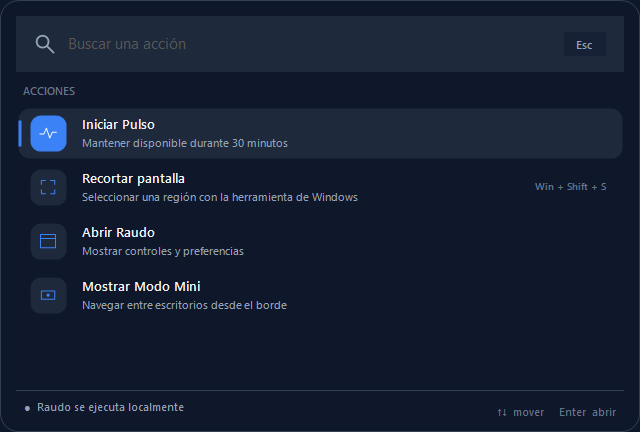
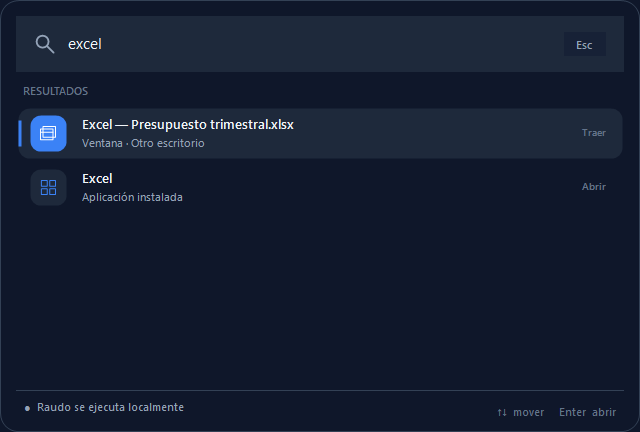
Prepare Raudo 1.3.0 release

diff --git a/src/Raudo/Properties/AssemblyInfo.cs b/src/Raudo/Properties/AssemblyInfo.cs
@@ -7,8 +7,8 @@ using System.Runtime.InteropServices;
 [assembly: AssemblyCompany("Adrielcrv")]
 [assembly: AssemblyProduct("Raudo")]
 [assembly: AssemblyCopyright("Copyright © 2026 Adrielcrv")]
-[assembly: AssemblyVersion("1.2.0.0")]
-[assembly: AssemblyFileVersion("1.2.0.0")]
+[assembly: AssemblyVersion("1.3.0.0")]
+[assembly: AssemblyFileVersion("1.3.0.0")]
 [assembly: ComVisible(false)]
 [assembly: Guid("6957c6c8-115a-483f-8a59-32d2024c6154")]
 [assembly: InternalsVisibleTo("Raudo.Tests")]

diff --git a/CHANGELOG.md b/CHANGELOG.md
@@ -4,6 +4,15 @@ Este proyecto utiliza versionado semántico.
 
 ## [Sin publicar]
 
+## [1.3.0] - 2026-07-13
+
+- Salto ahora encuentra ventanas abiertas por título o aplicación y distingue el escritorio actual de otro escritorio.
+- Una ventana existente tiene prioridad sobre iniciar otra instancia y puede enfocarse o traerse al escritorio actual.
+- Búsqueda de aplicaciones instaladas mediante el catálogo de aplicaciones de Windows, cargado una vez y bajo demanda.
+- Vista inicial limitada a las acciones de Raudo y máximo acotado de resultados durante una búsqueda.
+- Nuevos estados de preparación, ausencia de resultados y error de ejecución sin historial de consultas.
+- Validación ampliada para aplicaciones, ventanas actuales y externas, escalado y consumo de recursos.
+
 ## [1.2.0] - 2026-07-13
 
 - Nuevo lanzador Salto para buscar y ejecutar acciones locales con `Ctrl + Alt + Espacio`.

diff --git a/README.md b/README.md
@@ -27,10 +27,13 @@ Raudo reúne utilidades locales y ligeras para Windows en una aplicación de ban
 ### Salto
 
 - Abre un lanzador local con `Ctrl + Alt + Espacio` o desde la bandeja.
-- Busca acciones sin distinguir mayúsculas ni acentos.
+- Busca ventanas, aplicaciones y acciones sin distinguir mayúsculas ni acentos.
+- Prioriza una ventana abierta antes de iniciar otra instancia de la misma aplicación.
+- Indica si una ventana está en este u otro escritorio y permite enfocarla o traerla.
+- Obtiene las aplicaciones del catálogo de Windows una sola vez por sesión y bajo demanda.
 - Permite iniciar o detener Pulso, abrir Recortes y Raudo, controlar Modo Mini y cambiar entre escritorios disponibles.
 - Se opera con flechas, `Enter`, `Escape` o un clic.
-- Se crea únicamente al primer uso y no mantiene historial, indexación, scripts ni procesos auxiliares.
+- Se crea únicamente al primer uso: no mantiene historial, no indexa archivos, no ejecuta scripts ni instala procesos auxiliares.
 
 <p align="center">
   <img src="docs/raudo-salto-dark.png" width="640" alt="Salto de Raudo en modo oscuro">
@@ -63,7 +66,7 @@ La detección de ventanas utiliza la interfaz pública `IVirtualDesktopManager`.
 
 ## Privacidad y red
 
-Raudo no incluye telemetría, cuentas ni publicidad. Las búsquedas de Salto permanecen en memoria y se utilizan únicamente para filtrar el catálogo local. Raudo sólo se conecta a Internet cuando el usuario selecciona **Buscar actualizaciones**. En una instalación local, puede descargar el paquete oficial después de una confirmación, validar su versión y sus sumas SHA-256, reemplazar el ejecutable de forma atómica y reiniciarse. Una copia portable abre la publicación para actualización manual.
+Raudo no incluye telemetría, cuentas ni publicidad. Las búsquedas de Salto permanecen en memoria y se utilizan únicamente para filtrar ventanas, aplicaciones y acciones locales. El catálogo de aplicaciones se consulta a Windows bajo demanda; Raudo no recorre el disco ni conserva las consultas. Raudo sólo se conecta a Internet cuando el usuario selecciona **Buscar actualizaciones**. En una instalación local, puede descargar el paquete oficial después de una confirmación, validar su versión y sus sumas SHA-256, reemplazar el ejecutable de forma atómica y reiniciarse. Una copia portable abre la publicación para actualización manual.
 
 Consulta [PRIVACY.md](PRIVACY.md) para conocer los datos locales y el comportamiento de red.
 

diff --git a/PRIVACY.md b/PRIVACY.md
@@ -24,6 +24,12 @@ Durante una actualización confirmada, los archivos temporales se guardan en:
 
 La copia anterior del ejecutable se conserva únicamente durante el reinicio y después se elimina.
 
+## Datos transitorios de Salto
+
+Cuando Salto se abre, Raudo consulta los títulos de las ventanas visibles y el catálogo de aplicaciones registrado por Windows. Los nombres, identificadores y la consulta escrita se conservan únicamente en memoria durante la sesión necesaria para mostrar y filtrar resultados.
+
+Raudo no lee el contenido de las ventanas, no recorre ni indexa archivos, no conserva el texto de búsqueda y no envía estos datos por la red. El catálogo de aplicaciones se prepara bajo demanda como máximo una vez por proceso.
+
 ## Conexiones de red
 
 Raudo no realiza conexiones automáticas. Al seleccionar **Buscar actualizaciones**, envía una solicitud HTTPS a la API pública de GitHub para consultar la última publicación de `adrielcrv/raudo-windows`.